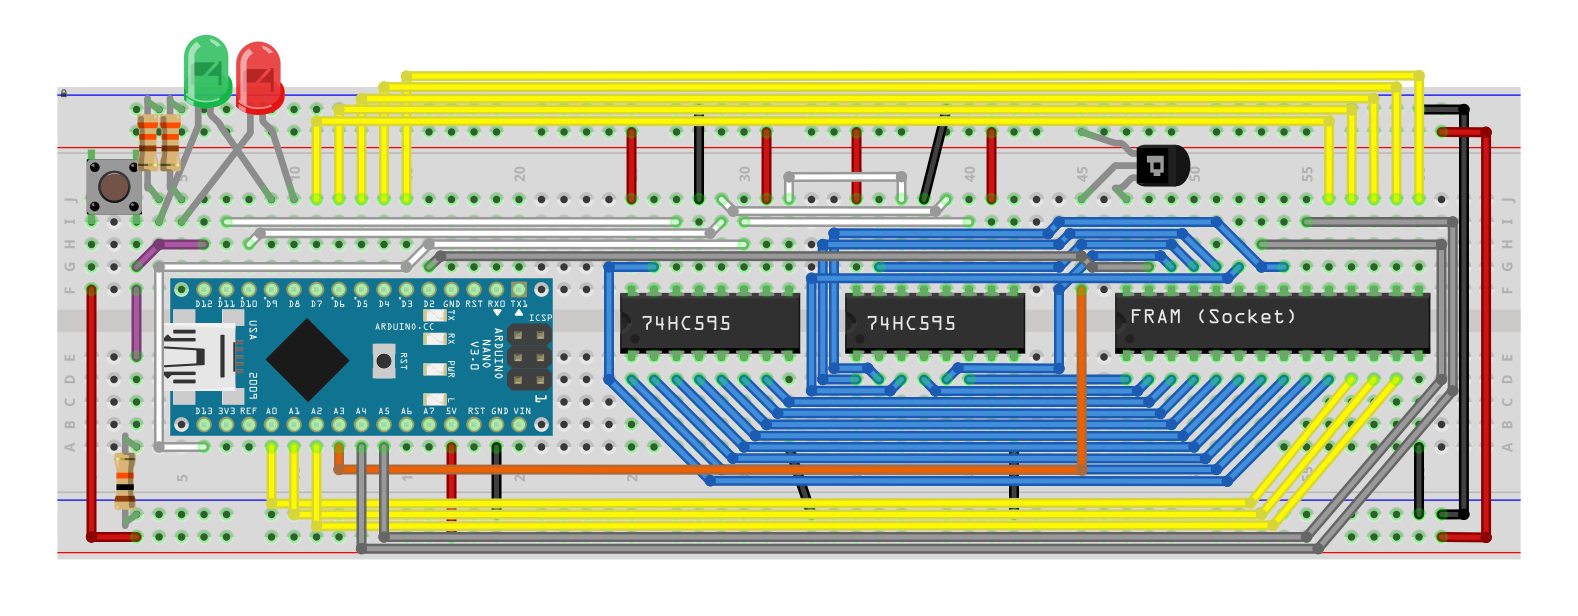
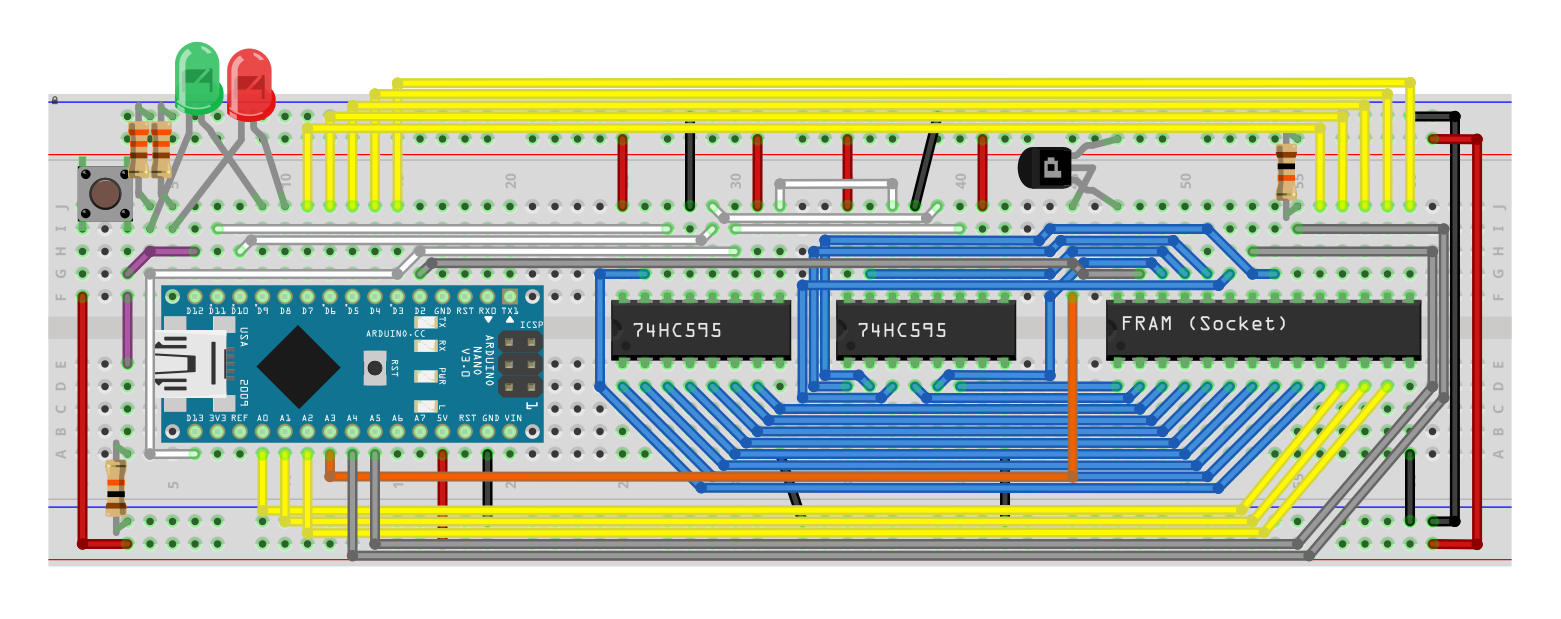
Fix memory potentially being inadvertently written to.
Memory control pins should start high (inactive), and a pull-up on CE makes sure the memory chip isn't enabled when the control pins are unconfigured.

Oh, and I flipped a transistor which was the wrong way in the schematic. Whoops!

diff --git a/software/memorychip.cpp b/software/memorychip.cpp
@@ -22,12 +22,14 @@ void MemoryChip::initPins()
     _addressChannel->initOutput();
     switchToReadMode();
 
-    pinMode(_cePin.pin, OUTPUT);
+    // It's important that these pins immediately
+    // start high, so the chip isn't enabled!
     SET_BITS_IN_PORT_HIGH(_cePin.out, _cePin.bitMask);
-    pinMode(_oePin.pin, OUTPUT);
+    pinMode(_cePin.pin, OUTPUT);
     SET_BITS_IN_PORT_HIGH(_oePin.out, _oePin.bitMask);
-    pinMode(_wePin.pin, OUTPUT);
+    pinMode(_oePin.pin, OUTPUT);
     SET_BITS_IN_PORT_HIGH(_wePin.out, _wePin.bitMask);
+    pinMode(_wePin.pin, OUTPUT);
 
     pinMode(_powerPin.pin, OUTPUT);
     powerOn();
